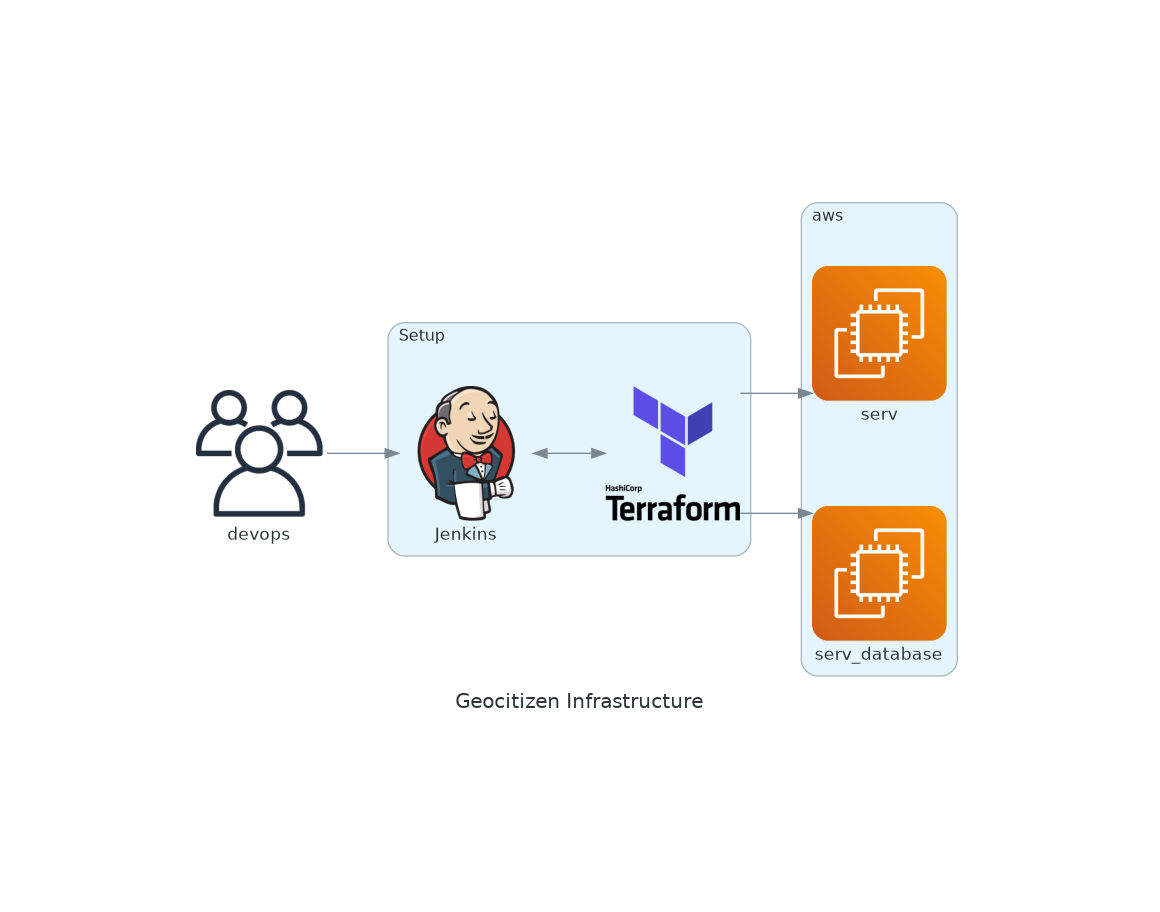
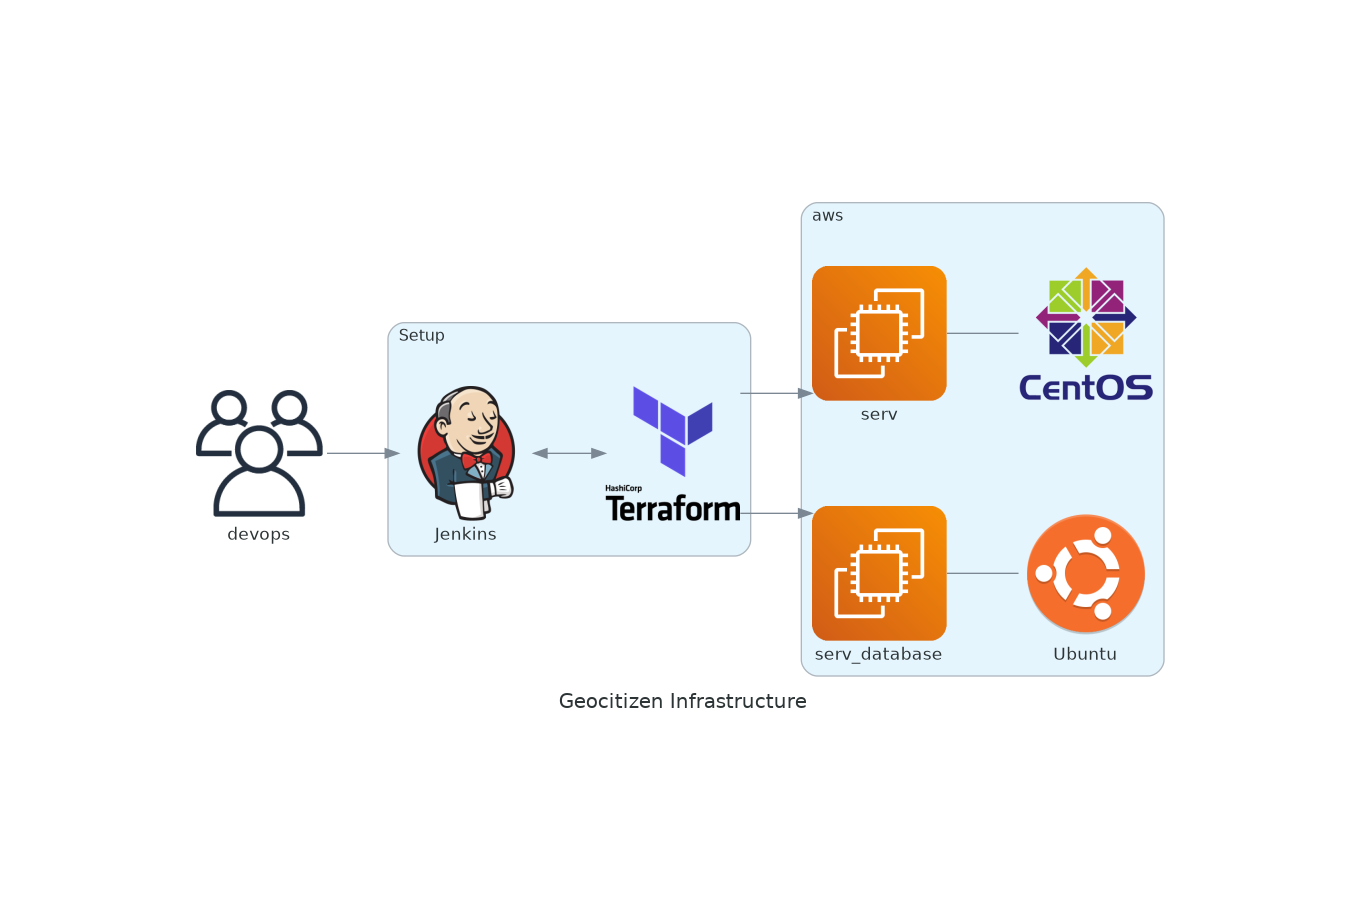
IA-137-mykola-diagrams-as-code Added Ubuntu and CentOS to diagram_infrastr.py

Changed region(s): [[0.1241, 0.2149, 0.869, 0.7675], [0.4034, 0.7368, 0.5897, 0.7982]]

diff --git a/diagram_infrastr.py b/diagram_infrastr.py
@@ -3,6 +3,7 @@ from diagrams.aws.compute import EC2
 from diagrams.aws.general import Users
 from diagrams.onprem.iac import Terraform
 from diagrams.onprem.ci import Jenkins
+from diagrams.generic.os import Ubuntu, Centos
 
 with Diagram("Geocitizen Infrastructure", show=True):
 	with Cluster("Setup"):
@@ -12,6 +13,10 @@ with Diagram("Geocitizen Infrastructure", show=True):
 	with Cluster("aws", direction="TB"):
 		serv1 = EC2("serv") 
 		serv2 = EC2("serv_database")
+		Ubnt = Ubuntu("Ubuntu")
+		Cnts = Centos("")
 		aws = [serv1,serv2]
+		serv1 - Cnts
+		serv2 - Ubnt
 	Users("devops")>> Jnkns
 	Trrfrm >> aws
